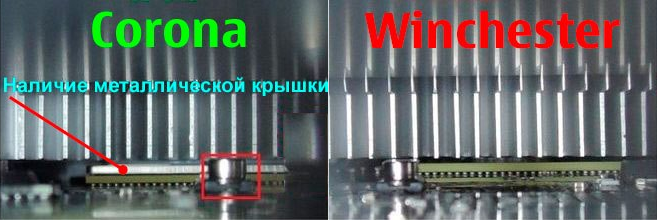
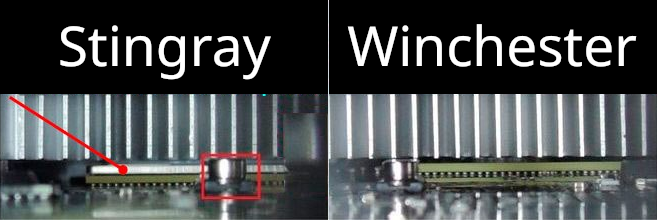
Update

diff --git a/phat-hdmi.html b/phat-hdmi.html
@@ -47,13 +47,13 @@
 							<h4 style="color: #004dff">FALCON</h4>
 							<p style="color: #004dff">12V 14.2A</p>
 							<img src="res/142.png" height="115"><br><br>
-							<p style="color: green">RGH1.2</p>
+							<p><font color="green">RGH1.2</font> or <font color="orange">RGH3</font></p>
 						</div>
 						<div class="box box-med">
-							<h4 style="color: #004dff">JASPER</h4>
+							<h4 style="color: #004dff">JASPER or TONASKET</h4>
 							<p style="color: #004dff">12V 12.1A</p>
 							<img src="res/121.png" height="115"></br><br>
-							<p style="color: green">RGH1.2</p>
+							<p><font color="green">RGH1.2</font> or <font color="orange">RGH3</font></p>
 						</div>
 					</div>
 					<div class="row justify-content-center">

diff --git a/e.html b/e.html
@@ -38,10 +38,10 @@
 					</div>
 					<div class="row justify-content-center">
 						<div class="box box-med">
-							<h4 style="color: #004dff">CORONA</h4>
+							<h4 style="color: #004dff">STINGRAY</h4>
 							<p style="color: #004dff">12V 9.6A</p>
 							<img src="res/e-xcgpu-hs.png" height="115"><br><br>
-							<p style="color: green">RGH1.2 or RGH3</p>
+							<p><font color="green">RGH1.2</font> or <font color="green">RGH3</font></p>
 						</div>
 						<div class="box box-med">
 							<h4 style="color: #004dff">WINCHESTER</h4>

diff --git a/slim.html b/slim.html
@@ -44,7 +44,7 @@
 							<p style="color: green">RGH1.2 or RGH3</p>
 						</div>
 						<div class="box box-med">
-							<h4 style="color: #004dff">CORONA</h4>
+							<h4 style="color: #004dff">CORONA or WAITSBURG</h4>
 							<p style="color: #004dff">12V 9.6A</p>
 							<img src="res/960.png" height="115"><br><br>
 							<p style="color: green">RGH1.2 or RGH3</p>

diff --git a/phat-av.html b/phat-av.html
@@ -38,7 +38,7 @@
 					</div>
 					<div class="row justify-content-center">
 						<div class="box box-med">
-							<h4 style="color: #004dff">XENON</h4>
+							<h4 style="color: #004dff">XENON or ELPIS</h4>
 							<p style="color: #004dff">12V 16.5A</p>
 							<img src="res/165.png" height="115"><br><br>
 							<p style="color: green">EXT_CLK</p>
